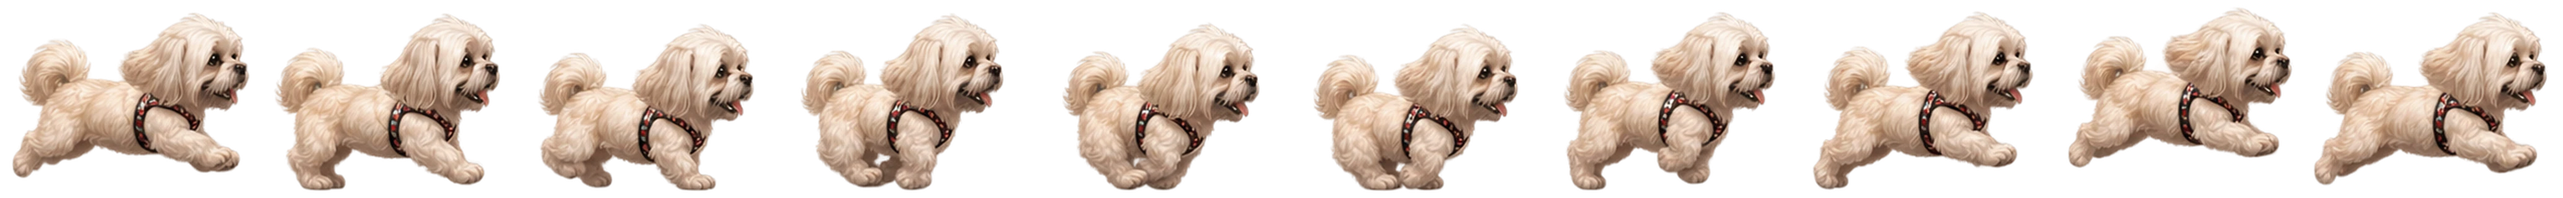
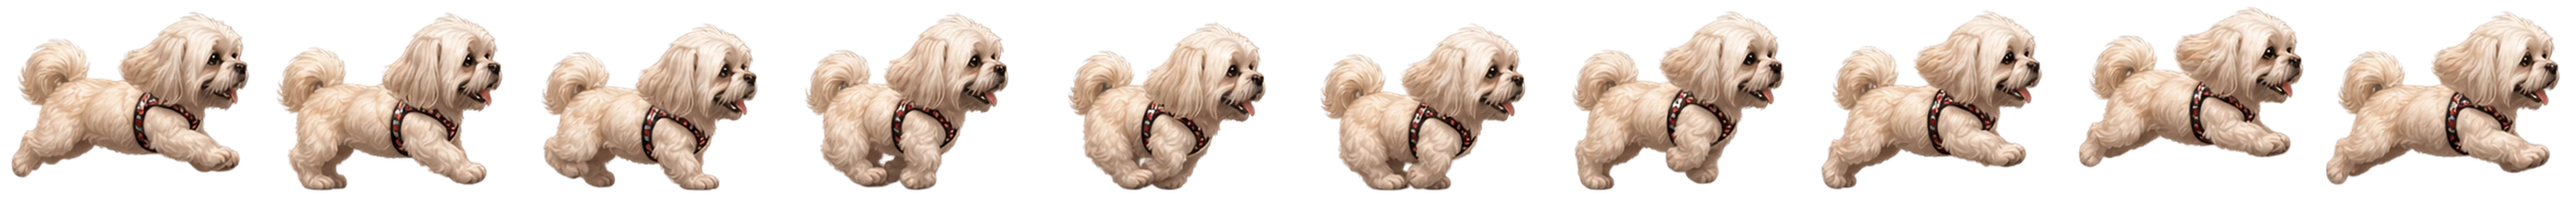
Tutor corre com sprite de 10 quadros
Folha do André (grade 5×2) recortada pelo mesmo script do cachorro, que
agora lê grades linha por linha e normaliza o alfa quase transparente
dessas folhas. O tutor vetorial fica como reserva enquanto a imagem
carrega; no ar usa o quadro com os dois pés fora do chão e abaixado
continua achatado. A folha do cachorro foi regerada pelo script novo.

diff --git a/src/features/corrida/imagens/index.ts b/src/features/corrida/imagens/index.ts
@@ -11,6 +11,7 @@ import piso from './cidade/piso.webp'
 import pista from './cidade/pista.webp'
 import distancia from './hud-distancia.webp'
 import pausa from './hud-pausa.webp'
+import tutorCorrendo from './tutor-correndo.webp'
 import velocidade from './hud-velocidade.webp'
 
 export const IMAGENS_HUD = { distancia, velocidade, pausa }
@@ -70,11 +71,16 @@ export const CAMADAS_CIDADE: readonly Camada[] = [
 // PRD/referencias/cachorro-correndo.png (gerada no ChatGPT com o prompt em
 // PRD/referencias/prompt-cachorro-correndo.md) por scripts/sprites/recortar-corrida.py.
 // `pes`: pixels entre a pata mais baixa da folha e a base do quadro.
-export const SPRITE_CACHORRO_CORRENDO = { quadros: 10, largura: 413, altura: 320, pes: 11 } as const
+export const SPRITE_CACHORRO_CORRENDO = { quadros: 10, largura: 415, altura: 320, pes: 11 } as const
+
+// Folha do tutor correndo: 10 quadros (a arte veio numa grade 5×2, lida linha por linha),
+// recortados de PRD/referencias/tutor-correndo.webp pelo mesmo script.
+export const SPRITE_TUTOR_CORRENDO = { quadros: 10, largura: 292, altura: 400, pes: 6 } as const
 
 let arte: HTMLImageElement[] | null = null
 let sprites: Map<string, HTMLImageElement> | null = null
 let cachorro: HTMLImageElement | null = null
+let tutor: HTMLImageElement | null = null
 
 function criar(src: string) {
   const imagem = new Image()
@@ -89,14 +95,25 @@ export function preCarregarImagensCenario(): HTMLImageElement[] {
     sprites = new Map(Object.entries(SPRITES_OBJETOS).map(([nome, src]) => [nome, criar(src)]))
     Object.values(IMAGENS_HUD).forEach(criar)
     cachorro = criar(cachorroCorrendo)
+    tutor = criar(tutorCorrendo)
   }
   return arte
+}
+
+function pronta(imagem: HTMLImageElement | null) {
+  return imagem && imagem.complete && imagem.naturalWidth > 0 ? imagem : null
 }
 
 /** A folha do cachorro, ou null enquanto não carregou (o canvas desenha o cachorro vetorial). */
 export function spriteCachorroPronto(): HTMLImageElement | null {
   preCarregarImagensCenario()
-  return cachorro && cachorro.complete && cachorro.naturalWidth > 0 ? cachorro : null
+  return pronta(cachorro)
+}
+
+/** A folha do tutor, ou null enquanto não carregou (o canvas desenha o tutor vetorial). */
+export function spriteTutorPronto(): HTMLImageElement | null {
+  preCarregarImagensCenario()
+  return pronta(tutor)
 }
 
 /** As camadas, ou null enquanto alguma não carregou (o canvas desenha o cenário vetorial). */

diff --git a/src/features/corrida/desenho/desenharCena.ts b/src/features/corrida/desenho/desenharCena.ts
@@ -13,9 +13,11 @@ import {
   LINHA_PISO,
   spriteCachorroPronto,
   spriteObjeto,
+  spriteTutorPronto,
 } from '../imagens/index.ts'
 import { COR, PALETA_CENARIO } from './paleta.ts'
 import { desenharCachorroSprite } from './cachorroSprite.ts'
+import { desenharTutorSprite } from './tutorSprite.ts'
 import { desenharCachorro, desenharTutor } from './personagens.ts'
 
 // Desenho puro: lê o estado, nunca o altera. As 3 camadas do falso 3D (fundo, meio, pista)
@@ -526,11 +528,17 @@ export function desenharCena(ctx: CanvasRenderingContext2D, largura: number, alt
   // O tutor faz o que o cachorro fez quando passou por este mesmo ponto da pista: como os
   // obstáculos estão parados no mundo, ele pula o mesmo carro e se abaixa sob a mesma placa.
   const pose = poseNoRastro(quadro.rastro, xTutor - CACHORRO_LARGURA / 2)
-  ctx.save()
-  ctx.translate(sx(cam, xTutor), sy(cam, pose.y))
-  ctx.scale(ppm, -ppm)
-  desenharTutor(ctx, { fase: x * 1.6, noAr: !pose.noChao, abaixado: pose.abaixado })
-  ctx.restore()
+  const poseTutor = { fase: x * 1.6, noAr: !pose.noChao, abaixado: pose.abaixado }
+  const spriteTutor = spriteTutorPronto()
+  if (spriteTutor) {
+    desenharTutorSprite(ctx, spriteTutor, sx(cam, xTutor), sy(cam, pose.y), ppm, poseTutor)
+  } else {
+    ctx.save()
+    ctx.translate(sx(cam, xTutor), sy(cam, pose.y))
+    ctx.scale(ppm, -ppm)
+    desenharTutor(ctx, poseTutor)
+    ctx.restore()
+  }
 
   const cx = sx(cam, x + CACHORRO_LARGURA / 2)
   const base = sy(cam, y)

diff --git a/src/features/corrida/desenho/tutorSprite.ts b/src/features/corrida/desenho/tutorSprite.ts
@@ -1,0 +1,37 @@
+import { SPRITE_TUTOR_CORRENDO as FOLHA } from '../imagens/index.ts'
+
+// Tutor da arte (folha de 10 quadros correndo). (x, base) em pixels CSS: o ponto dos pés.
+
+// Altura do quadro inteiro no mundo, em metros (o tutor em si fica perto de 1,8 m).
+const ALTURA_QUADRO_M = 1.95
+// No ar: o quadro com os dois pés fora do chão.
+const QUADRO_NO_AR = 3
+
+export interface OpcoesTutorSprite {
+  // Um ciclo (2π) percorre os 10 quadros: duas passadas, uma de cada perna.
+  fase: number
+  noAr: boolean
+  abaixado: boolean
+}
+
+export function desenharTutorSprite(
+  ctx: CanvasRenderingContext2D,
+  sprite: HTMLImageElement,
+  x: number,
+  base: number,
+  ppm: number,
+  o: OpcoesTutorSprite,
+) {
+  const ciclo = o.fase / (Math.PI * 2)
+  const indice = o.noAr ? QUADRO_NO_AR : ((Math.floor(ciclo * FOLHA.quadros) % FOLHA.quadros) + FOLHA.quadros) % FOLHA.quadros
+  const escala = (ALTURA_QUADRO_M * ppm) / FOLHA.altura
+  const l = FOLHA.largura * escala
+  const a = FOLHA.altura * escala
+
+  ctx.save()
+  ctx.translate(x, base + FOLHA.pes * escala)
+  // Abaixar ainda sem quadro próprio na arte: achata, como o tutor vetorial.
+  if (o.abaixado) ctx.scale(1.15, 0.5)
+  ctx.drawImage(sprite, indice * FOLHA.largura, 0, FOLHA.largura, FOLHA.altura, -l / 2, -a, l, a)
+  ctx.restore()
+}

diff --git a/scripts/sprites/recortar-corrida.py b/scripts/sprites/recortar-corrida.py
@@ -23,6 +23,10 @@ previa = sys.argv[4] if len(sys.argv) > 4 else None
 im = Image.open(src).convert('RGBA')
 rgba = np.asarray(im).copy()
 H, W, _ = rgba.shape
+# Algumas folhas saem com o fundo em alfa 1-2 e o personagem em 250-253, nunca 0 e 255:
+# normaliza, senão o fundo vira uma névoa e o personagem fica levemente transparente.
+alfa = np.clip((rgba[..., 3].astype(np.float32) - 8) / (240 - 8), 0, 1)
+rgba[..., 3] = (alfa * 255).astype(np.uint8)
 alfa = rgba[..., 3]
 visivel = alfa > 8
 
@@ -38,38 +42,57 @@ for y0 in range(H):
         n += 1
         rotulo[y0, x0] = n
         pilha = [(y0, x0)]
-        soma_x = cnt = 0
+        soma_x = soma_y = cnt = 0
         while pilha:
             y, x = pilha.pop()
             soma_x += x
+            soma_y += y
             cnt += 1
             for dy, dx in ((1, 0), (-1, 0), (0, 1), (0, -1)):
                 ny, nx = y + dy, x + dx
                 if 0 <= ny < H and 0 <= nx < W and visivel[ny, nx] and not rotulo[ny, nx]:
                     rotulo[ny, nx] = n
                     pilha.append((ny, nx))
-        manchas.append((n, soma_x / cnt, cnt))
+        manchas.append((n, soma_x / cnt, cnt, soma_y / cnt))
 
-# Um cachorro é uma mancha com pelo menos 30% da área da maior; o resto é pelo solto.
+# Um personagem é uma mancha com pelo menos 30% da área da maior; o resto é pelo solto.
 maior = max(m[2] for m in manchas)
-grandes = sorted([m for m in manchas if m[2] > 0.3 * maior], key=lambda m: m[1])
+grandes = [m for m in manchas if m[2] > 0.3 * maior]
+# Linhas da grade: centro vertical a mais de 15% da altura da imagem do anterior abre linha nova.
+grandes.sort(key=lambda m: m[3])
+linhas = []
+for m in grandes:
+    if linhas and abs(m[3] - linhas[-1][-1][3]) < 0.15 * H:
+        linhas[-1].append(m)
+    else:
+        linhas.append([m])
+grandes = [m for linha in linhas for m in sorted(linha, key=lambda m: m[1])]
+linha_de = {m[0]: i for i, linha in enumerate(linhas) for m in linha}
 total = len(grandes)
-print('quadros encontrados:', total)
+print('quadros encontrados:', total, 'em', len(linhas), 'linha(s)')
 if total < QUADROS_MINIMOS:
     sys.exit(f'A folha tem {total} quadros; o mínimo para a corrida é {QUADROS_MINIMOS}.')
-celula = W / total
 
-# Cada mancha pequena (pelo solto) vai para o cachorro mais próximo.
-centros = np.array([m[1] for m in grandes])
+# Cada mancha pequena (pelo solto, cadarço) vai para o personagem mais próximo.
+centros = np.array([(m[1], m[3]) for m in grandes])
 dono = {}
 for m in manchas:
     if m[2] < 4:
         continue
-    dono[m[0]] = int(np.argmin(np.abs(centros - m[1])))
+    d = (centros[:, 0] - m[1]) ** 2 + (centros[:, 1] - m[3]) ** 2
+    dono[m[0]] = int(np.argmin(d))
 
 mascaras = [np.zeros((H, W), bool) for _ in range(total)]
 for rid, i in dono.items():
     mascaras[i] |= rotulo == rid
+
+# Na vertical cada quadro fica na posição da sua linha da grade: a base da linha (pé mais baixo
+# dela) vira a base comum.
+base_linha = {}
+for i, mk in enumerate(mascaras):
+    l = linha_de[grandes[i][0]]
+    base_linha[l] = max(base_linha.get(l, 0), np.where(mk)[0].max())
+desloc_y = [base_linha[linha_de[grandes[i][0]]] for i in range(total)]
 
 # Âncora horizontal de cada quadro: centro do tronco (55% de cima da altura do cachorro).
 ancoras = []
@@ -78,16 +101,15 @@ for mk in mascaras:
     topo_i, base_i = ys.min(), ys.max()
     tronco = ys < topo_i + (base_i - topo_i) * 0.55
     ancoras.append(xs[tronco].mean())
-print('deslocamento do tronco antes (px):', [round(a - i * celula - (ancoras[0]), 1) for i, a in enumerate(ancoras)])
 
 # Caixa comum, em coordenadas relativas à âncora de cada quadro.
-esq, dir_, topo, base = 0, 0, H, 0
+esq, dir_, topo, base = 0, 0, 0, -H
 for i, mk in enumerate(mascaras):
     ys, xs = np.where(mk)
     esq = min(esq, xs.min() - ancoras[i])
     dir_ = max(dir_, xs.max() + 1 - ancoras[i])
-    topo = min(topo, ys.min())
-    base = max(base, ys.max() + 1)
+    topo = min(topo, ys.min() - desloc_y[i])
+    base = max(base, ys.max() + 1 - desloc_y[i])
 margem = 6
 esq, dir_ = int(np.floor(esq)) - margem, int(np.ceil(dir_)) + margem
 topo, base = int(topo) - margem, int(base) + margem
@@ -98,13 +120,14 @@ lq_s, aq_s = round(lq * escala), altura_saida
 folha = Image.new('RGBA', (lq_s * total, aq_s), (0, 0, 0, 0))
 for i, mk in enumerate(mascaras):
     x0 = int(round(ancoras[i])) + esq
+    y0 = int(desloc_y[i]) + topo
     q = np.zeros((aq, lq, 4), np.uint8)
     # recorte com limites, preenchendo fora da imagem com transparente
     sx0, sx1 = max(0, x0), min(W, x0 + lq)
-    sy0, sy1 = max(0, topo), min(H, base)
+    sy0, sy1 = max(0, y0), min(H, y0 + aq)
     pedaco = rgba[sy0:sy1, sx0:sx1].copy()
     pedaco[..., 3] = np.where(mk[sy0:sy1, sx0:sx1], pedaco[..., 3], 0)
-    q[sy0 - topo:sy1 - topo, sx0 - x0:sx1 - x0] = pedaco
+    q[sy0 - y0:sy1 - y0, sx0 - x0:sx1 - x0] = pedaco
     folha.paste(Image.fromarray(q).resize((lq_s, aq_s), Image.LANCZOS), (i * lq_s, 0))
 
 folha.save(out, 'WEBP', quality=90, method=6)
